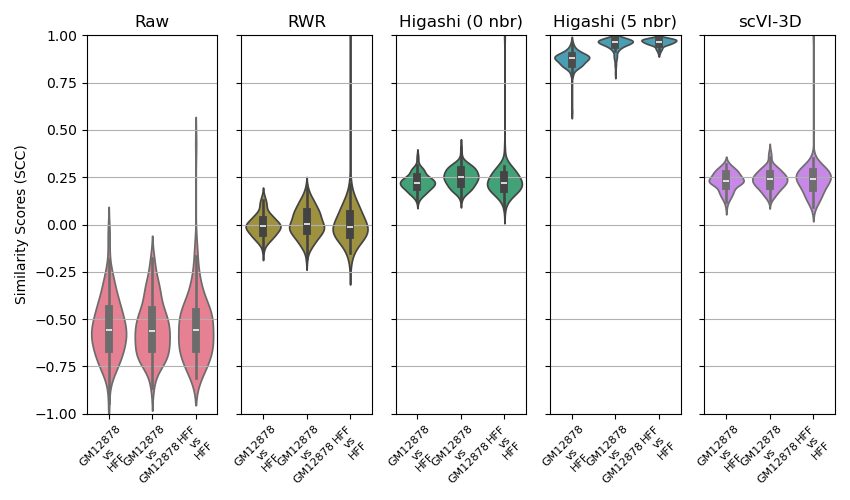
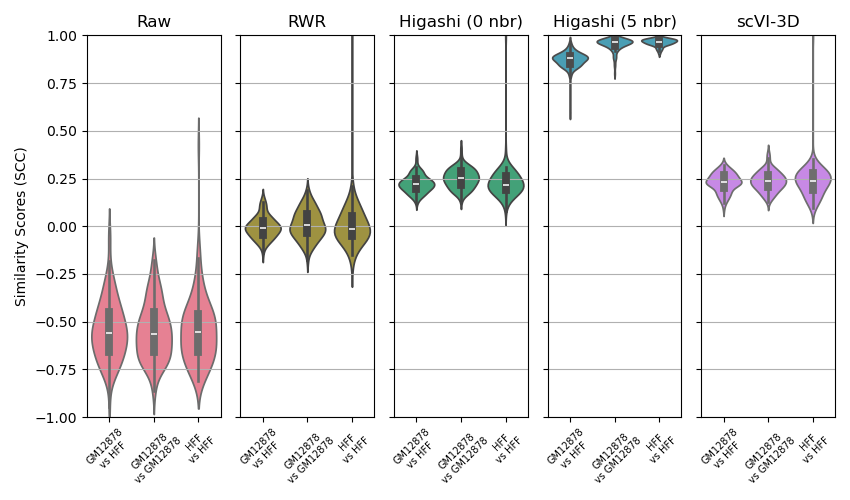
plots

diff --git a/experiments/2023-09-18/plot_SCC_2.py b/experiments/2023-09-18/plot_SCC_2.py
@@ -70,7 +70,7 @@ colors = sns.color_palette('husl', n_colors=5)
 #print(colors)
 # Set the common x-axis ticks and labels
 x_ticks = [0, 1, 2]
-x_tick_labels = ["GM12878\nvs\nHFF", "GM12878\nvs\nGM12878", "HFF\nvs\nHFF"]
+x_tick_labels = ["GM12878\nvs HFF", "GM12878\nvs GM12878", "HFF\nvs HFF"]
 for i, d in enumerate(dirs):
     ax = axes[i]  # Get the current axis
     temp_df = pd.read_csv(os.path.join(d, "h0_all_pairs.csv"), sep=',')
@@ -82,7 +82,7 @@ for i, d in enumerate(dirs):
     sns.violinplot(all_violin_data,ax=ax, palette=[colors[i]]*3)                
     ax.set_ylim(-1, 1)  # Set y-axis limits to [-1, 3]
     ax.set_xticks(x_ticks)
-    ax.set_xticklabels(x_tick_labels, rotation=45,fontsize=8)
+    ax.set_xticklabels(x_tick_labels, rotation=45,fontsize=7)
     ax.set_ylabel('')
     ax.set_title(imp_type_labels[i])
     ax.grid(axis='y')
